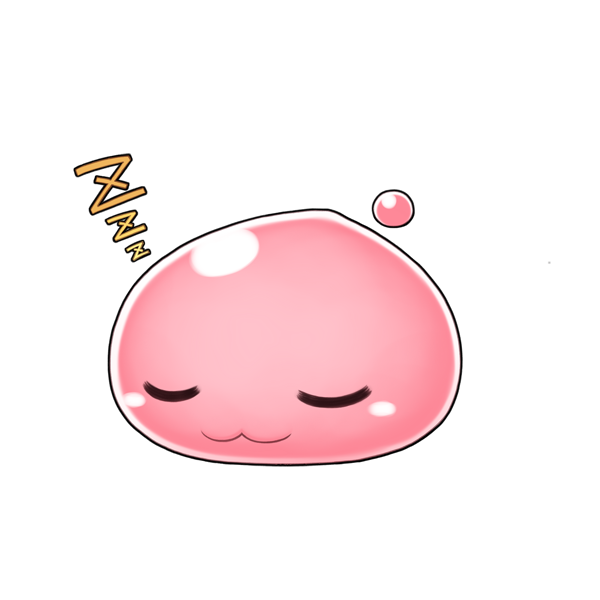
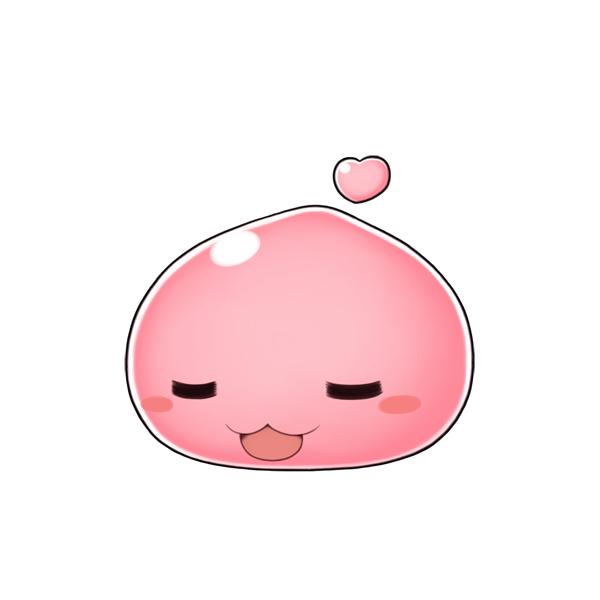
more resources added. to be continued.

Changed region(s): [[0.12, 0.24, 0.81, 0.81]]

diff --git a/components/Pet.js b/components/Pet.js
@@ -27,15 +27,19 @@ const Pet = ({ petState, onInteraction }) => {
             const currentTime = Date.now();
             const elapsedTime = currentTime - lastInteractionTime;
 
-            if (elapsedTime >= 20000) { // 20 seconds
-                onInteraction('dead');
+            if (elapsedTime >= 30000) { // 30 seconds
+                onInteraction('angel');
                 clearInterval(interval); // Stop the interval when the pet is dead
-            } else if (elapsedTime >= 15000) { // 15 seconds
+            } else if (elapsedTime >= 25000) { // 25 seconds
+                onInteraction('dead');
+            } else if (elapsedTime >= 25000) { // 25 seconds
                 onInteraction('sleep');
+            } else if (elapsedTime >= 15000) { // 15 seconds
+                onInteraction('cry');
             } else if (elapsedTime >= 10000) { // 10 seconds
-                onInteraction('hungry');
-            } else if (elapsedTime >= 5000) { // 5 seconds
                 onInteraction('sad');
+            } else if (elapsedTime >= 5000) { // 5 seconds
+                onInteraction('hungry');
             }
         }, 1000); // Check every second for simplicity, adjust as needed
 
@@ -54,6 +58,9 @@ const Pet = ({ petState, onInteraction }) => {
         case 'sad':
             imageSource = require('../assets/images/sad.png');
             break;
+        case 'cry':
+            imageSource = require('../assets/images/cry.png');
+            break;
         case 'sleep':
             imageSource = require('../assets/images/sleep.png');
             break;
@@ -62,6 +69,9 @@ const Pet = ({ petState, onInteraction }) => {
             break;
         case 'dead':
             imageSource = require('../assets/images/dead.png');
+            break;
+        case 'angel':
+            imageSource = require('../assets/images/angel.png');
             break;
         default:
             imageSource = require('../assets/images/pet.png');
